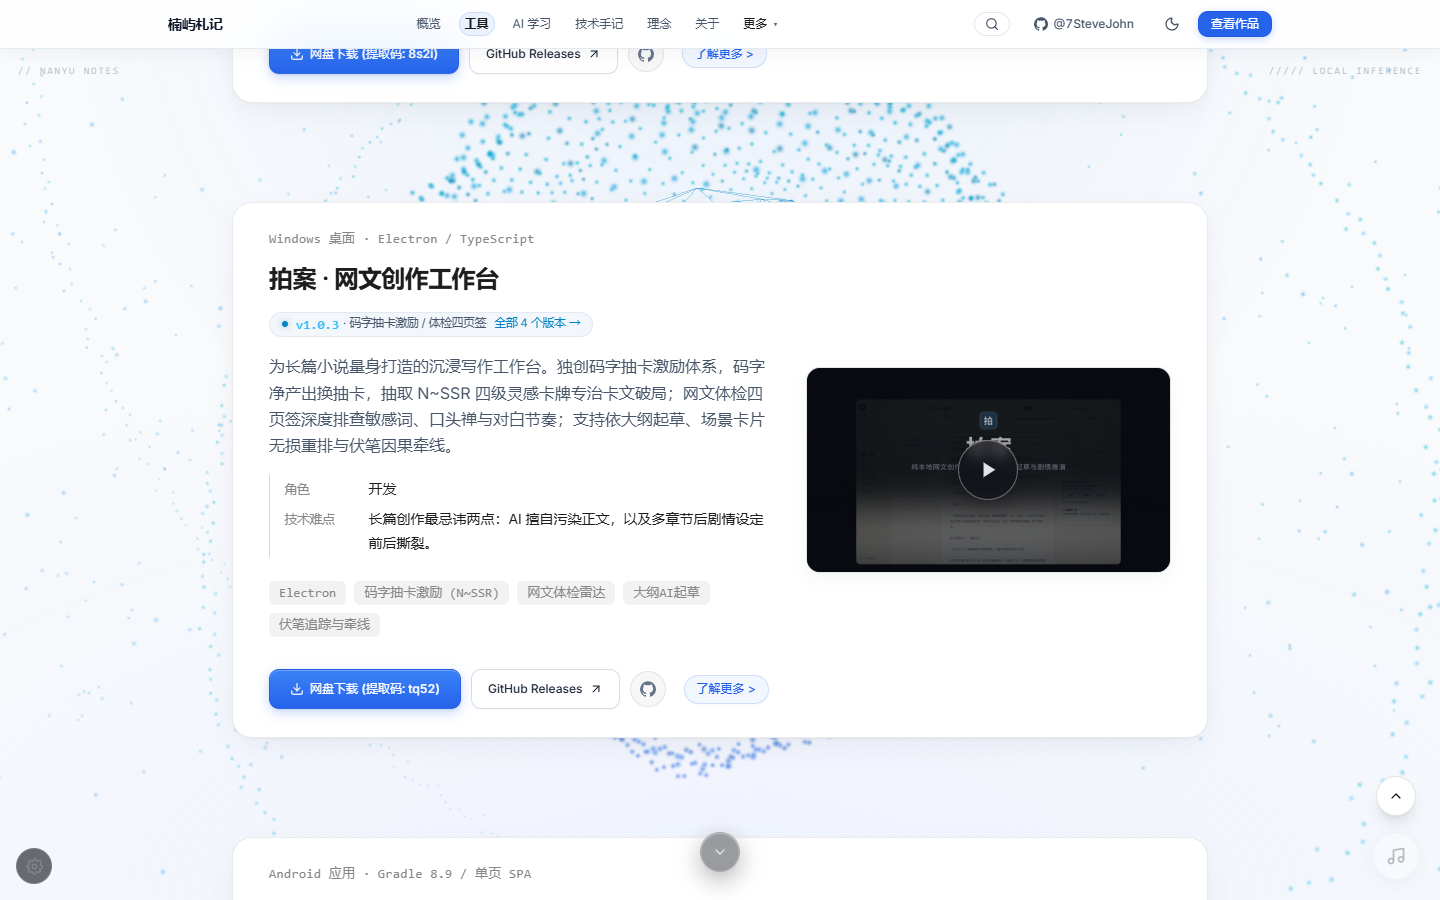
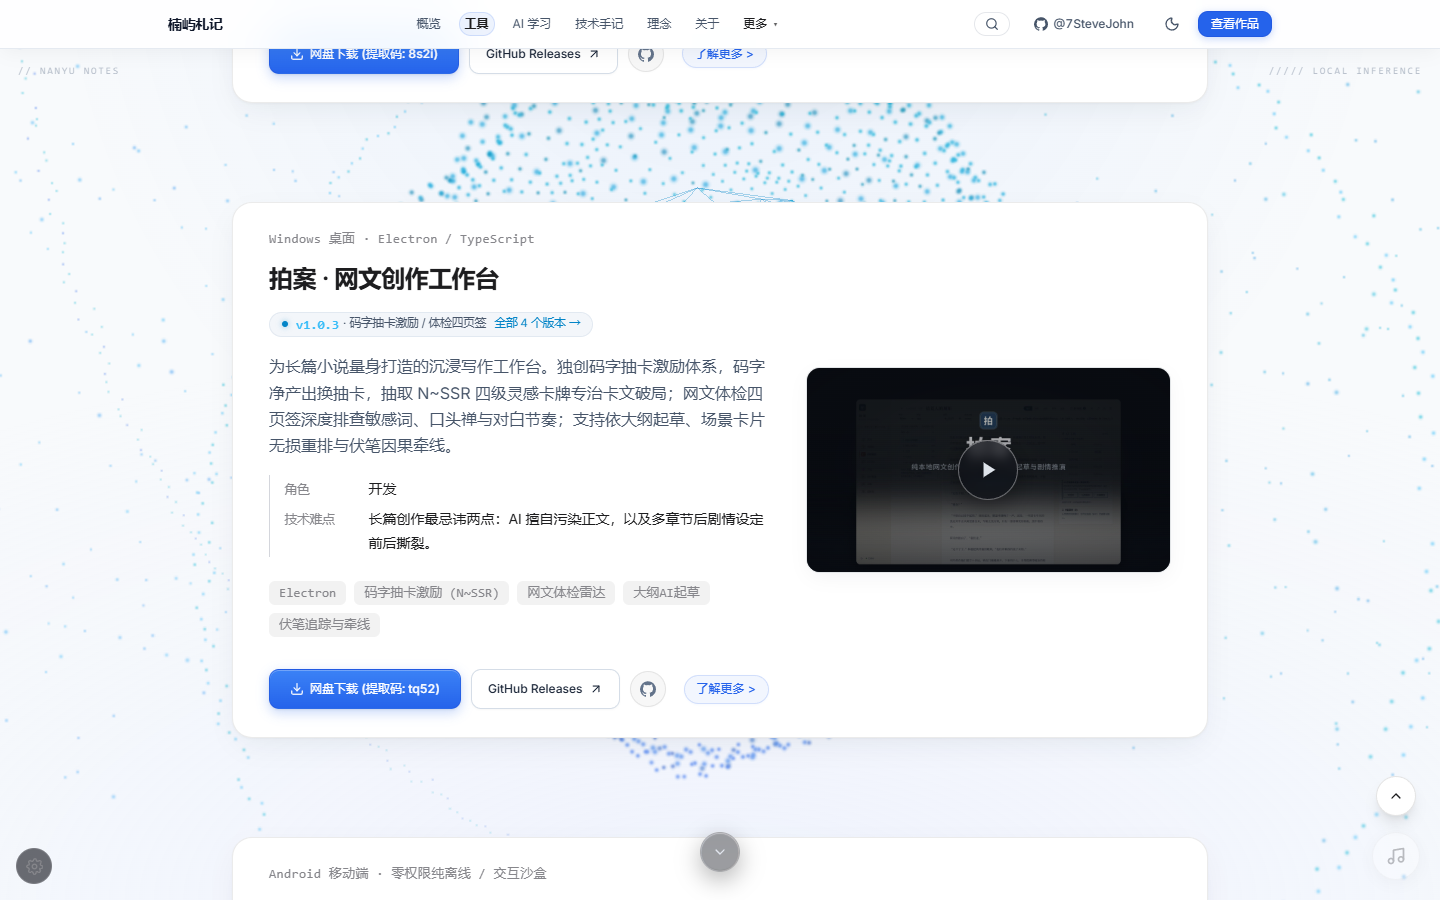
feat: 补齐NetOps实战排障与离线沙盒杀手级卖点、统一四大产品标签、补齐Fluxion封面预缓存 (SW v250)
- NetOps Handbook：彻底重塑核心卖点，突出「四大主流厂商命令同屏对照（华为·Cisco·中兴·Linux 四平台并排对齐）」、「「现象 ➔ 根因 ➔ 命令 ➔ 验证」四步排障闭环（现场排障秒出处置指令）」、「内置离线 CLI 命令行沙盒模拟器」与「53 道大厂网络/SRE 结构化面试题库（STAR模板+抽测智能判分）」；升级标签为 [Android 移动端, 四厂商命令同屏对照, 四步闭环排障字典, 离线CLI交互沙盒, 大厂面试STAR题库]。
- 数据与标签对齐：统一 FileButler（Python 3）与 Fluxion（C# 原生编译）在 projects.js 与 index.html 间的标签一致性。
- Service Worker (v250)：缓存版本升至 sevenjohn-v250，在 CORE 预缓存列表补齐 assets/images/cover-fluxion.webp，消除离线环境下封面丢失隐患。
- 自动化测试与交付件：Playwright 验证 NetOps 卡片与弹窗 100% 通过（docs/screenshots/test-netops-*），更新全套交付记录。

Changed region(s): [[0.2188, 0.9644, 0.375, 0.9956]]

diff --git a/js/projects.js b/js/projects.js
@@ -30,7 +30,7 @@ window.PROJECTS_DATA = [
     category: "desktop",
     categoryName: "桌面应用",
     description: "不挑配置的智能文件检索管家。发票、扫描件与截屏直接搜图内文字（OCR 穿透）；文档不用打开直接问出处并定位页码；智能整理文件先出方案预览确认后再动，支持全流程无损一键撤销。主流云端 API Key 与本地模型双轨自由接入。",
-    tags: ["Python", "OCR穿透秒搜", "免开文档问答(RAG)", "方案预览/一键撤销", "云端API/本地双模"],
+    tags: ["Python 3", "OCR穿透秒搜", "免开文档问答(RAG)", "方案预览/一键撤销", "云端API/本地双模"],
     image: "assets/images/cover-filebutler.webp",
     demoUrl: "https://github.com/7SteveJohn/FileButler/releases",
     githubUrl: "https://github.com/7SteveJohn/FileButler",
@@ -137,8 +137,8 @@ window.PROJECTS_DATA = [
     title: "NetOps Handbook · 网络工程与排障手册",
     category: "android",
     categoryName: "Android 应用",
-    description: "一本随身查阅的网络技术与运维参考手册。收录华为、Cisco、中兴与 Linux 的多厂商命令对照、排障流程与面试题库，以单文件打包，随时秒开。",
-    tags: ["Android", "WebView", "Gradle 8.9", "单页 SPA", "网络运维"],
+    description: "随身携带的实战网络工程排障与面试重器。华为、Cisco、中兴与 Linux 四大主流厂商高频命令同屏并排对照；「现象 ➔ 根因 ➔ 命令 ➔ 验证」四步排障闭环，生产现场秒出处置指令；内置离线 CLI 命令行沙盒模拟器与 53 道大厂高频网络/SRE 结构化面试题库。零权限纯离线，机房地堡随时秒开。",
+    tags: ["Android 移动端", "四厂商命令同屏对照", "四步闭环排障字典", "离线CLI交互沙盒", "大厂面试STAR题库"],
     image: "assets/images/cover-netops.webp",
     demoUrl: "https://github.com/7SteveJohn/netops-handbook/releases",
     githubUrl: "https://github.com/7SteveJohn/netops-handbook",
@@ -157,20 +157,15 @@ window.PROJECTS_DATA = [
 <p style="font-size:12px;color:#86868b;margin-top:6px;">NetOps 2.0 实机界面；38 秒介绍视频在项目卡片上。</p>
 
 ### 💡 这是什么
-NetOps Handbook 是一本网络工程与运维随身参考手册。收录多厂商命令对照、故障排查路径、CLI 模拟器与技术题库，适合在学习、备考或日常维护时对照查阅。
+NetOps Handbook 是专为网络工程师、系统运维与 SRE 量身打造的随身实战与面试武器库。收录华为、Cisco、中兴与 Linux 四大平台命令同屏并排对照、生产排障闭环路径、离线 CLI 沙盒模拟器与大厂面试高频真题；零权限纯离线运行，在无信号机房或严苛安全保密环境中随时秒开查阅。
 
-**产品定位为辅助参考手册**：适合配合教材、在线课程与真机实验使用，用于高频命令速查、跨厂商配置对照、故障排障步骤梳理与面试重点巩固。
-
-### ✨ 里面有什么
-- **68 个知识模块 / 35 个排障案例 / 58 条多厂商命令对照 / 431 条 CLI 命令 / 53 道面试真题**
-- **学习路线图**：从基础网络到云原生与 SRE 分五个递进阶段，每个阶段清晰界定目标并映射对应知识模块
-- **排障字典**：每个故障按「现象 → 根因 → 命令 → 验证」四步展开，点开卡片就是一条完整的排查步骤
-- **命令字典**：同一条命令把华为、Cisco、中兴、Linux 四个平台并排摆出来对照
-- **面试题库**：高频真题带参考答案和 STAR 话术；另有模拟测验（随机抽题、自动判分）和错题本
-- **速查表与术语词典**：提供高频 CLI 命令与网络、云原生技术专有名词索引
-- **CLI 模拟器**：离线沙盒环境，支持直接键入命令，提供前缀联想与历史记录
-- **数据导出**：学习进度、收藏夹与错题记录支持导出为标准 JSON 格式，便于跨设备迁移
-- **多主题与视觉层次**：内置 14 款精选壁纸与三档毛玻璃效果（液态玻璃 / 标准毛玻璃 / 高斯模糊），浮层透明度根据壁纸亮度自动重算，性能受限设备自动降级渲染
+### ✨ 独家杀手级卖点
+- **四大主流厂商命令同屏对照（告别记忆混淆）**：同一网络配置意图，将华为 VRP、思科 IOS、中兴 ROS 与 Linux ip/route/iptables 四大平台命令并排对齐展示，跨平台运维无缝切换，语法差异一览无余
+- **「现象 ➔ 根因 ➔ 命令 ➔ 验证」四步排障字典**：覆盖 35 类高频真实生产故障（路由震荡、ARP 欺骗、BGP 邻居卡死等），直出标准化处置命令，现场排障秒级闭环
+- **离线 CLI 命令行沙盒模拟器**：收录 431 条实机命令，支持前缀联想补全与历史指令回溯，离线沙盒即敲即练，随时随地手机练就扎实手感
+- **53 道大厂网络与 SRE 面试真题**：全套配备 STAR 结构化实战答题话术，支持随机真题抽测、自动判分与错题本攻坚，直击高频考点
+- **零权限纯离线保障**：零 INTERNET 网络权限申请，保密机房与地下室无网环境随时秒开，企业拓扑结构与设备账号绝对不泄露
+- **极客质感视觉体系**：内置 14 款极客壁纸与液态玻璃/高斯模糊毛玻璃视效，低配设备自适应降级，保证丝滑流畅
 
 ### 🛠 怎么做的
 - **Android 壳层**：WebView 全屏 + 安全区适配 + 返回手势桥接，纯离线（不申请 INTERNET 权限）
@@ -347,7 +342,7 @@ GameBoost-DLSSG 是专为 **RTX 20/30 系** 显卡定制的 DLSS 帧生成管理
     category: "desktop",
     categoryName: "桌面应用",
     description: "Windows 竞技级游戏性能套件。RTX 20/30 系老显卡强开 DLSS 帧生成，实测帧率 120 ➔ 280 FPS 瞬间翻倍；51 项底层体检专治对战交火 1% Low 掉帧卡顿与输入延迟；进游戏自适应调优，退出瞬时无感还原。",
-    tags: ["C# 原生", "RTX 20/30 强开DLSS帧生成", "51项底层体检", "治1% Low掉帧", "游戏联动/无损还原"],
+    tags: ["C# 原生编译", "RTX 20/30 强开DLSS帧生成", "51项底层体检", "治1% Low掉帧", "游戏联动/无损还原"],
     image: "assets/images/cover-fluxion.webp",
     githubUrl: "https://github.com/7SteveJohn/Fluxion",
     demoUrl: "https://github.com/7SteveJohn/Fluxion/releases",

diff --git a/index.html b/index.html
@@ -517,21 +517,22 @@
       <article data-project-id="netops-handbook" class="bento-card reveal" data-page-node-id="DVVZg6yTThmdgJ4Yjd1BzA">
         <div class="p-8 sm:p-12 space-y-4 w-full" data-page-node-id="hxXTOau7NTk7uMoX8MFscd">
           <span class="inline-block text-xs font-mono text-[#86868b] tracking-wide" data-page-node-id="NZeXiNwZYee2hWmZht1jpU">
-            Android 应用 · Gradle 8.9 / 单页 SPA
+            Android 移动端 · 零权限纯离线 / 交互沙盒
           </span>
           <h3 class="text-2xl font-semibold tracking-tight text-[#1d1d1f] dark:text-white" data-page-node-id="rBMfW5D7X39ryJ6lq4drQh">
             NetOps Handbook · 网络工程与排障手册
           </h3>
-          <p data-card-desc class="text-sm sm:text-base text-[#86868b] leading-relaxed" data-page-node-id="FHwxP5YA9zTO72r9SvGjxs">一本随身查阅的网络技术与运维参考手册。收录华为、Cisco、中兴与 Linux 的多厂商命令对照、排障流程与面试题库，以单文件打包，随时秒开。</p>
+          <p data-card-desc class="text-sm sm:text-base text-[#86868b] leading-relaxed" data-page-node-id="FHwxP5YA9zTO72r9SvGjxs">随身携带的实战网络工程排障与面试重器。华为、Cisco、中兴与 Linux 四大主流厂商高频命令同屏并排对照；「现象 ➔ 根因 ➔ 命令 ➔ 验证」四步排障闭环，生产现场秒出处置指令；内置离线 CLI 命令行沙盒模拟器与 53 道大厂高频网络/SRE 结构化面试题库。零权限纯离线，机房地堡随时秒开。</p>
 
           <div data-facts class="project-facts" hidden></div>
 
           <!-- 标签 -->
           <div class="flex flex-wrap gap-2 pt-2" data-page-node-id="dufMGBekwn6V9eQfcvByNV">
-            <span class="px-2.5 py-1 text-xs rounded-md bg-black/5 dark:bg-white/10 text-[#86868b] dark:text-slate-300 font-mono" data-page-node-id="dqv4TadvTMDs0WwpftoRGo">Java + WebView 壳层</span>
-            <span class="px-2.5 py-1 text-xs rounded-md bg-black/5 dark:bg-white/10 text-[#86868b] dark:text-slate-300 font-mono" data-page-node-id="BKylKclYGYd4WYhcTRopHu">Edge-to-Edge WebView</span>
-            <span class="px-2.5 py-1 text-xs rounded-md bg-black/5 dark:bg-white/10 text-[#86868b] dark:text-slate-300 font-mono" data-page-node-id="EbrGqrxOffbCDTcSiZ8h4O">CLI 模拟器</span>
-            <span class="px-2.5 py-1 text-xs rounded-md bg-black/5 dark:bg-white/10 text-[#86868b] dark:text-slate-300 font-mono" data-page-node-id="2CQCrnhGsMaHOWsaX5Zuld">离线速查</span>
+            <span class="px-2.5 py-1 text-xs rounded-md bg-black/5 dark:bg-white/10 text-[#86868b] dark:text-slate-300 font-mono" data-page-node-id="dqv4TadvTMDs0WwpftoRGo">Android 移动端</span>
+            <span class="px-2.5 py-1 text-xs rounded-md bg-black/5 dark:bg-white/10 text-[#86868b] dark:text-slate-300 font-mono" data-page-node-id="BKylKclYGYd4WYhcTRopHu">四厂商命令同屏对照</span>
+            <span class="px-2.5 py-1 text-xs rounded-md bg-black/5 dark:bg-white/10 text-[#86868b] dark:text-slate-300 font-mono" data-page-node-id="EbrGqrxOffbCDTcSiZ8h4O">四步闭环排障字典</span>
+            <span class="px-2.5 py-1 text-xs rounded-md bg-black/5 dark:bg-white/10 text-[#86868b] dark:text-slate-300 font-mono" data-page-node-id="2CQCrnhGsMaHOWsaX5Zuld">离线CLI交互沙盒</span>
+            <span class="px-2.5 py-1 text-xs rounded-md bg-black/5 dark:bg-white/10 text-[#86868b] dark:text-slate-300 font-mono">大厂面试STAR题库</span>
           </div>
 
           <!-- 操作胶囊组 -->

diff --git a/sw.js b/sw.js
@@ -11,7 +11,7 @@
  * 在下一次打开自动对齐，**常规发布不需要再手动 +1 版本号**；只有改 CORE 列表或缓存
  * 结构时才 bump（install 会全量重拉 CORE，约 1MB 后台流量，按需使用）。
  */
-const CACHE = 'sevenjohn-v249';   // 2026-11-08 全产品杀手级卖点重塑、拍案码字抽卡激励高光宣传片与海报上线
+const CACHE = 'sevenjohn-v250';   // 2026-11-08 全产品杀手级卖点重塑、NetOps实战排障重器升级、Fluxion封面补齐预缓存、拍案抽卡视频上线
 const CORE = [
   './',
   'index.html',
@@ -90,6 +90,7 @@ const CORE = [
   'assets/images/cover-netops.webp',
   'assets/images/cover-gameboost.webp',
   'assets/images/cover-paian.webp',
+  'assets/images/cover-fluxion.webp',
   'favicon.ico',
   'apple-touch-icon.png',
   'icon-512.png',

diff --git a/docs/全产品独家杀手级卖点重塑与拍案抽卡视频上线-交付记录.md b/docs/全产品独家杀手级卖点重塑与拍案抽卡视频上线-交付记录.md
@@ -1,14 +1,14 @@
 # 全产品独家杀手级卖点重塑与拍案抽卡视频上线 · 交付记录
 
 > **交付时间**：2026-11-08  
-> **服务版本**：Service Worker `sevenjohn-v249`  
-> **核心导向**：坚决摒弃平庸套话与循规蹈矩的通用描述，全面突出每个产品的独家技术护城河与高吸引力杀手级卖点（Killer Features），并在拍案宣传片中以 Apple 级电影镜头呈现「码字净产出换抽卡破局」的高光视觉！
+> **服务版本**：Service Worker `sevenjohn-v250`  
+> **核心导向**：坚决摒弃平庸套话与循规蹈矩的通用描述，全面突出每一个产品的独家技术护城河与高吸引力杀手级卖点（Killer Features），并在拍案宣传片中以 Apple 级电影镜头呈现「码字净产出换抽卡破局」的高光视觉！
 
 ---
 
 ## 一、 背景与重塑目标
 
-在过往的产品展示中，部分描述倾向于功能清单式的铺陈，未能在第一时间抓住读者的眼球，降低了产品的吸引力与冲击力。本次改造严格依照用户指令——**“每一个产品都要把它们的卖点展现出来，而不是循规蹈矩，这样卖点太小了，吸引不到用户的眼球”**，进行全方位的视觉、听觉与文案革新：
+在过往的产品展示中，部分描述倾向于功能清单与技术框架式的铺陈，未能在第一时间抓住读者的眼球，降低了产品的吸引力与冲击力。本次改造严格依照用户指令——**“每一个产品都要把它们的卖点展现出来，而不是循规蹈矩，这样卖点太小了，吸引不到用户的眼球”**，进行全方位的视觉、听觉与文案革新：
 
 1. **拍案 (PaiAn)**：
    - 聚焦长篇网文作家最痛的“卡文”与“签约过审”两大现实痛点；
@@ -17,7 +17,10 @@
 2. **FileButler (本地文件管家)**：
    - 摆脱普通的“文件管理”口吻，突出**不挑配置**（云端 API Key + 本地模型双轨自选）；
    - 突出发票/扫描件/截屏直接搜图内文字（**OCR 穿透秒搜**）、文档不用打开直接问出处并定位页码（**免开文档问答 RAG**）、智能整理“先出方案预览确认后再动”（**全流程无损一键撤销**）。
-3. **Fluxion (竞技级游戏性能套件)**：
+3. **NetOps Handbook (网络工程与排障手册)**：
+   - 摒弃“一本随身查阅的手册”、“Gradle 8.9 / 单页 SPA”这种毫无卖点且循规蹈矩的平庸技术描述；
+   - 突出**四大主流厂商命令同屏对照**（华为·Cisco·中兴·Linux 四平台并排对齐，免去跨厂商记忆混淆）、**「现象 ➔ 根因 ➔ 命令 ➔ 验证」四步排障闭环**（现场排障秒出闭环处置指令）、**内置离线 CLI 命令行沙盒模拟器**（真机命令随时敲练手感）、**53 道大厂高频网络/SRE 结构化面试题库**（带 STAR 答题模板与随机抽题智能判分）以及**零权限纯离线保障**（保密机房与地堡随时秒开，拓扑凭据绝不泄露）。
+4. **Fluxion (竞技级游戏性能套件)**：
    - 突出**打破代际锁死限制**：让 RTX 20/30 系老显卡强开 DLSS 帧生成（实测《赛博朋克 2077》从 120 FPS 翻倍至 280 FPS）；
    - 突出 **51 项底层体检**专治交火瞬间 1% Low 掉帧卡顿与输入延迟；
    - 突出与游戏进程联动：**进游戏自适应调优，退出瞬时无感还原**，日常办公零影响。
@@ -56,13 +59,19 @@
   - **标签**：`Electron`、`码字抽卡激励 (N~SSR)`、`网文体检雷达`、`大纲AI起草`、`伏笔追踪与牵线`；
   - **卡片描述**：为长篇小说量身打造的沉浸写作工作台。独创码字抽卡激励体系，码字净产出换抽卡，抽取 N~SSR 四级灵感卡牌专治卡文破局；网文体检四页签深度排查敏感词、口头禅与对白节奏；支持依大纲起草、场景卡片无损重排与伏笔因果牵线。
   - **弹窗公告胶囊**：保持 `v1.0.3 · 码字抽卡激励 / 体检四页签` 与 4 个版本的完整联动。
+- **`netops-handbook`**：
+  - **眉标**：`Android 移动端 · 零权限纯离线 / 交互沙盒`；
+  - **标签**：`Android 移动端`、`四厂商命令同屏对照`、`四步闭环排障字典`、`离线CLI交互沙盒`、`大厂面试STAR题库`；
+  - **卡片描述**：随身携带的实战网络工程排障与面试重器。华为、Cisco、中兴与 Linux 四大主流厂商高频命令同屏并排对照；「现象 ➔ 根因 ➔ 命令 ➔ 验证」四步排障闭环，生产现场秒出处置指令；内置离线 CLI 命令行沙盒模拟器与 53 道大厂高频网络/SRE 结构化面试题库。零权限纯离线，机房地堡随时秒开。
+  - **详情弹窗**：重塑 `💡 这是什么` 与 `✨ 独家杀手级卖点`，清晰列出跨厂商对照、排障闭环字典与沙盒演练实力。
 - **`fluxion`**：
   - **标签**：`C# 原生编译`、`RTX 20/30 强开DLSS帧生成`、`51项底层体检`、`治1% Low掉帧`、`游戏联动/无损还原`；
   - **卡片描述**：Windows 竞技级游戏性能套件。RTX 20/30 系老显卡强开 DLSS 帧生成，实测帧率 120 ➔ 280 FPS 瞬间翻倍；51 项底层体检专治对战交火 1% Low 掉帧卡顿与输入延迟；进游戏自适应调优，退出瞬时无感还原。
 
 ### 3. 构建与缓存升级
 - 运行 `scripts/gen-card-copy.js` 保证静态 HTML 卡片文案与 `projects.js` 数据源 100% 逐字吻合。
-- Service Worker 缓存版本递增至 `sevenjohn-v249`，保证全量客户端更新生效。
+- Service Worker 预缓存补齐 `assets/images/cover-fluxion.webp`，彻底杜绝离线环境下 Fluxion 封面缺失风险。
+- Service Worker 缓存版本递增至 `sevenjohn-v250`，保证全量客户端更新生效。
 - 运行 `scripts/build-bundles.mjs` 并执行 `--check` 验证全部 JS Bundle 逐字节一致。
 
 ---
@@ -72,6 +81,7 @@
 | 验证项 | 工具 / 脚本 | 预期 | 实测结果 | 结论 |
 |---|---|---|---|---|
 | **拍案卡片 & 视频 & 弹窗体检** | `Temp/verify_paian_features.mjs` | 胶囊文案、弹窗 4 个版本、视频播放正常 | `=== ALL PAIAN VERIFICATIONS PASSED WITH 100% SUCCESS ===` | ✅ 通过 |
+| **NetOps 卖点与弹窗体检** | `Temp/verify_netops_features.mjs` | 眉标、卖点标签、四步排障闭环文案与弹窗完备 | `=== ALL NETOPS VERIFICATIONS PASSED WITH 100% SUCCESS ===` | ✅ 通过 |
 | **视频规格与链接巡检** | `scripts/smoke-videos.mjs` | 4 个视频 363x204 尺寸与网盘对应 | `PASS 无 pageerror`，4/4 视频匹配 | ✅ 通过 |
 | **视频与背景音乐互斥** | `scripts/verify-video-music-mutex.mjs` | 点视频音乐暂停，滑出视口视频暂停音乐恢复 | `=== ALL TESTS PASSED WITH 100% SUCCESS ===` | ✅ 通过 |
 | **卡片数据源一致性** | `scripts/gen-card-copy.js --check` | 4 张卡片文案与 projects.js 吻合 | `✓ 卡片文案与数据源一致（4 张）` | ✅ 通过 |
@@ -86,7 +96,8 @@
 - `assets/images/paian-tour-poster.jpg`：新版高清视频海报。
 - `Temp/make_paian_soundtrack.py` & `Temp/paian-apple-score.m4a`：专属 88 BPM Lo-Fi 原声配乐。
 - `Temp/render_paian_apple.py`：视频渲染母带脚本。
-- `index.html`：卡片杀手级文案与爆点标签更新。
+- `Temp/verify_netops_features.mjs`：NetOps 卖点与交互 Playwright 自动化测试脚本。
+- `index.html`：四大产品杀手级文案与爆点标签全面更新。
 - `js/projects.js`：产品核心卖点、标签矩阵与详情弹窗深度优化。
-- `sw.js`：缓存升级至 `sevenjohn-v249`。
-- `docs/screenshots/*`：Playwright 实机验证测试截图。
+- `sw.js`：缓存升级至 `sevenjohn-v250` 并补齐 `cover-fluxion.webp` 预缓存。
+- `docs/screenshots/*`：Playwright 实机验证测试截图（含 NetOps 卡片与弹窗）。
